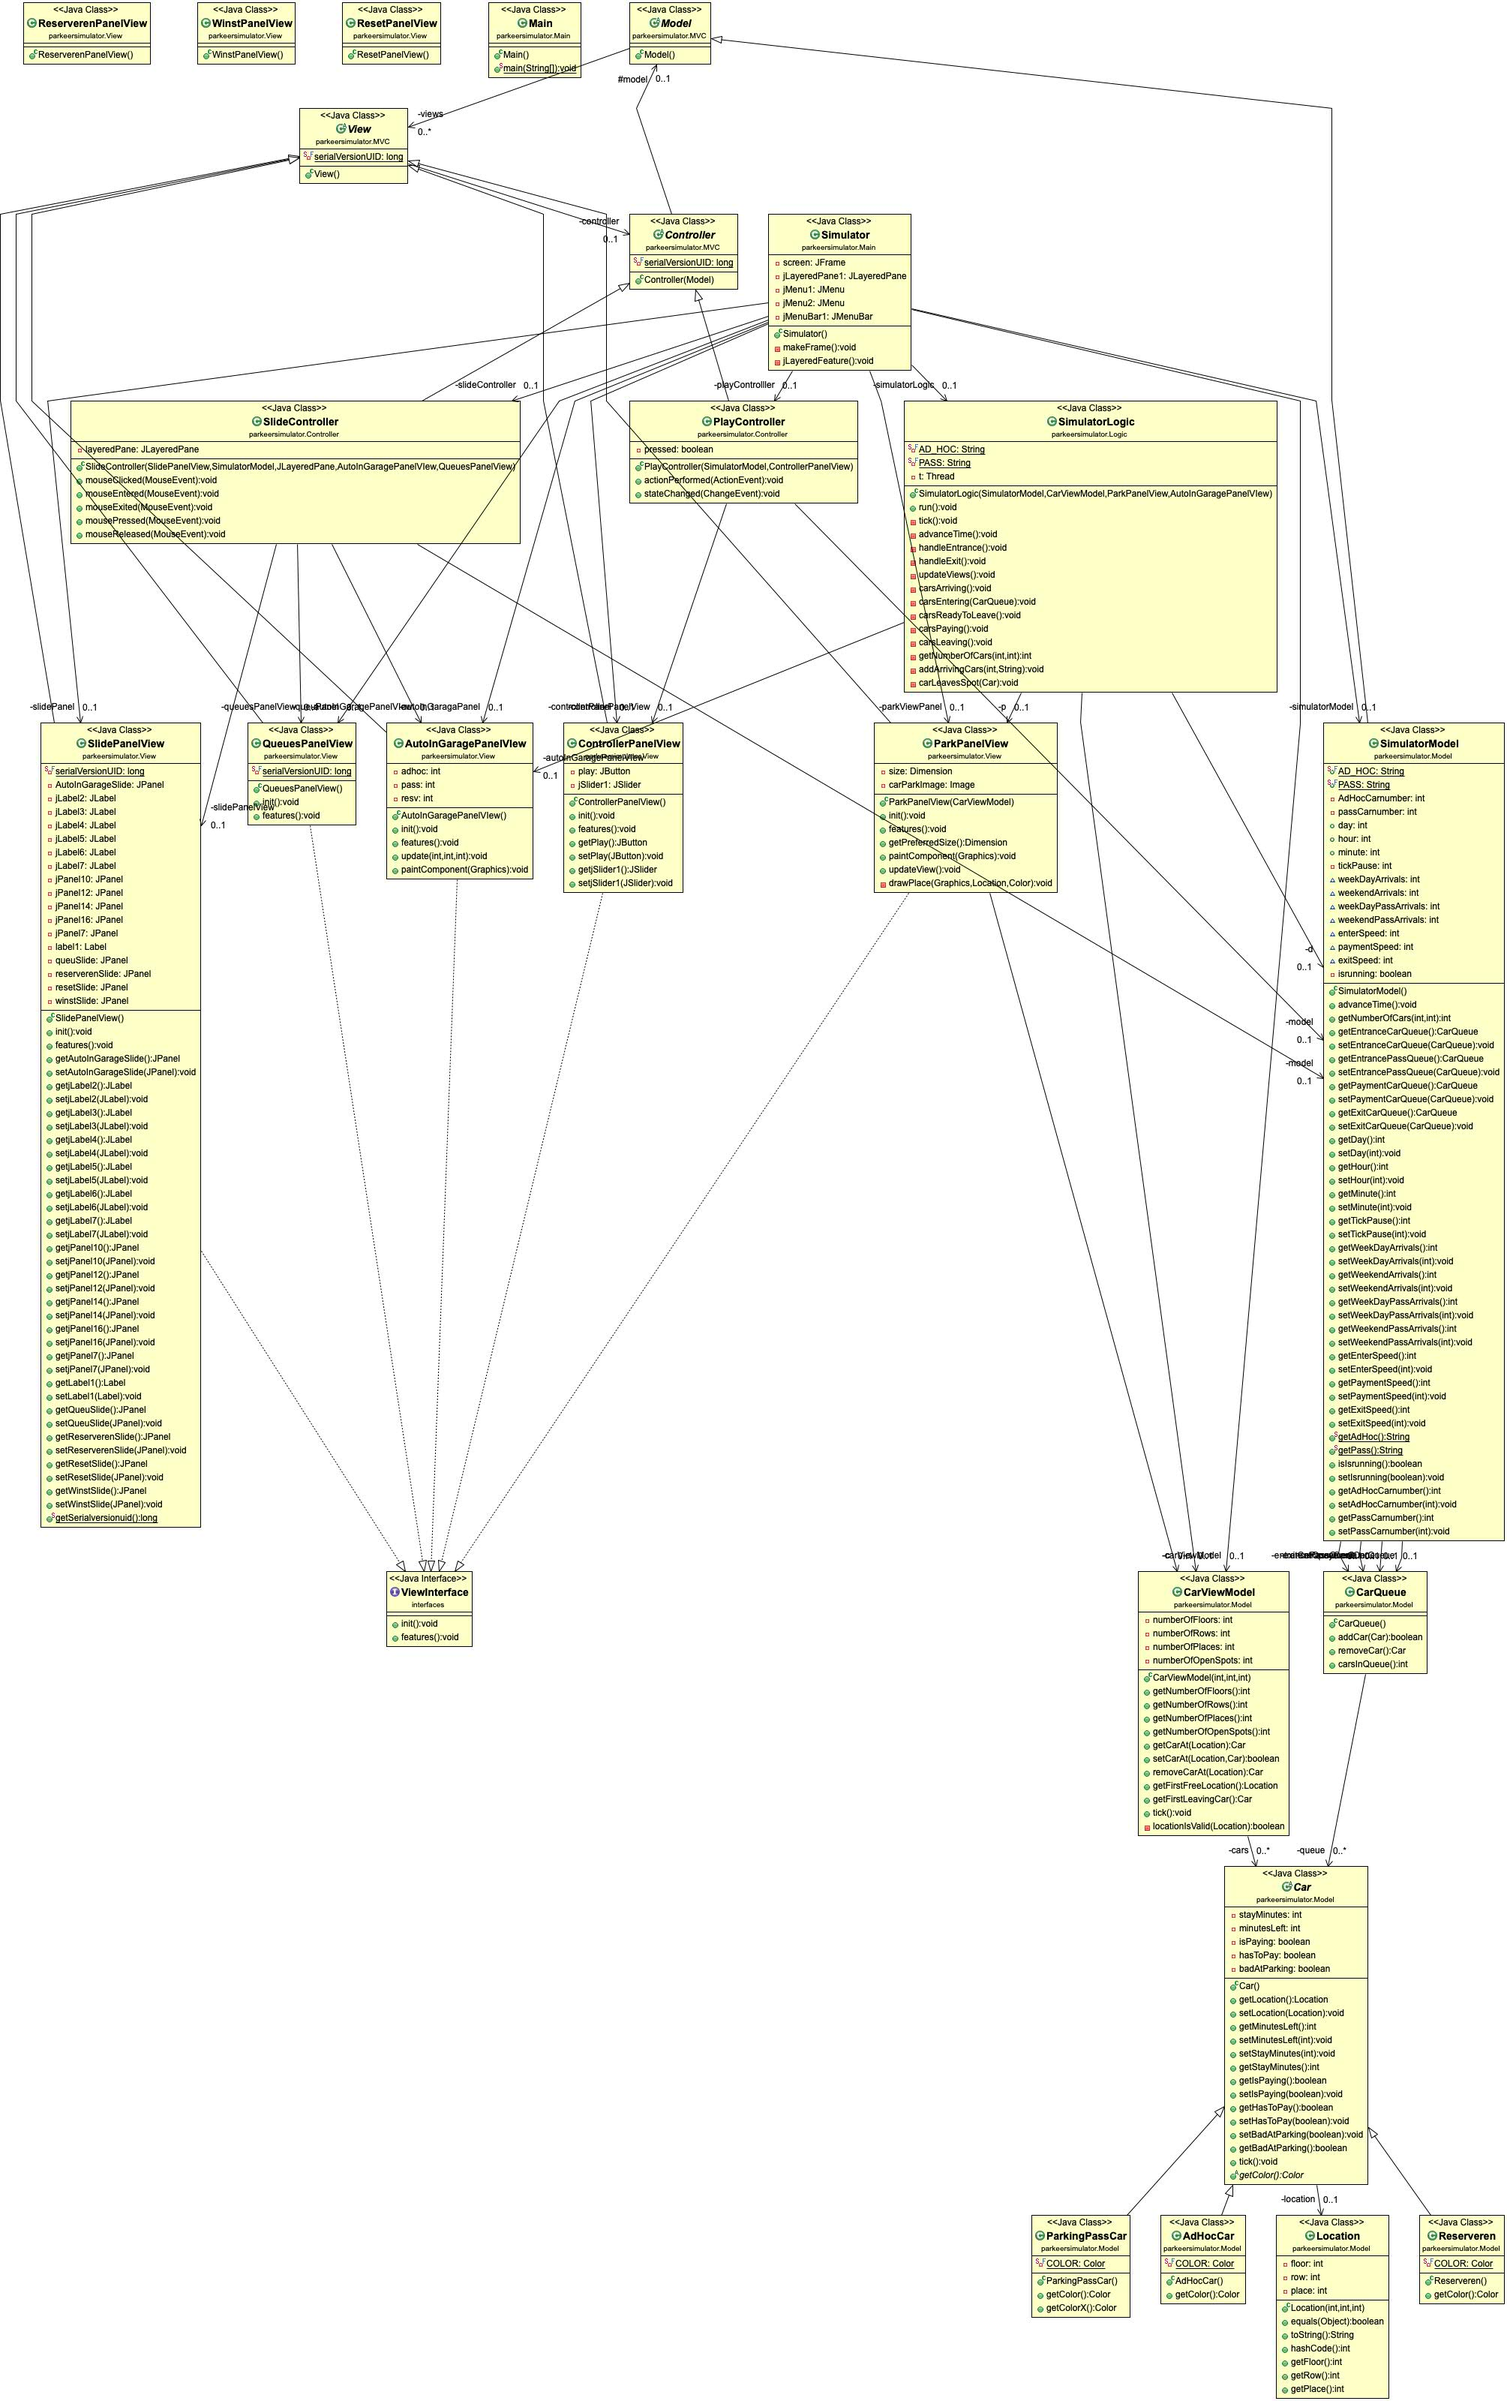
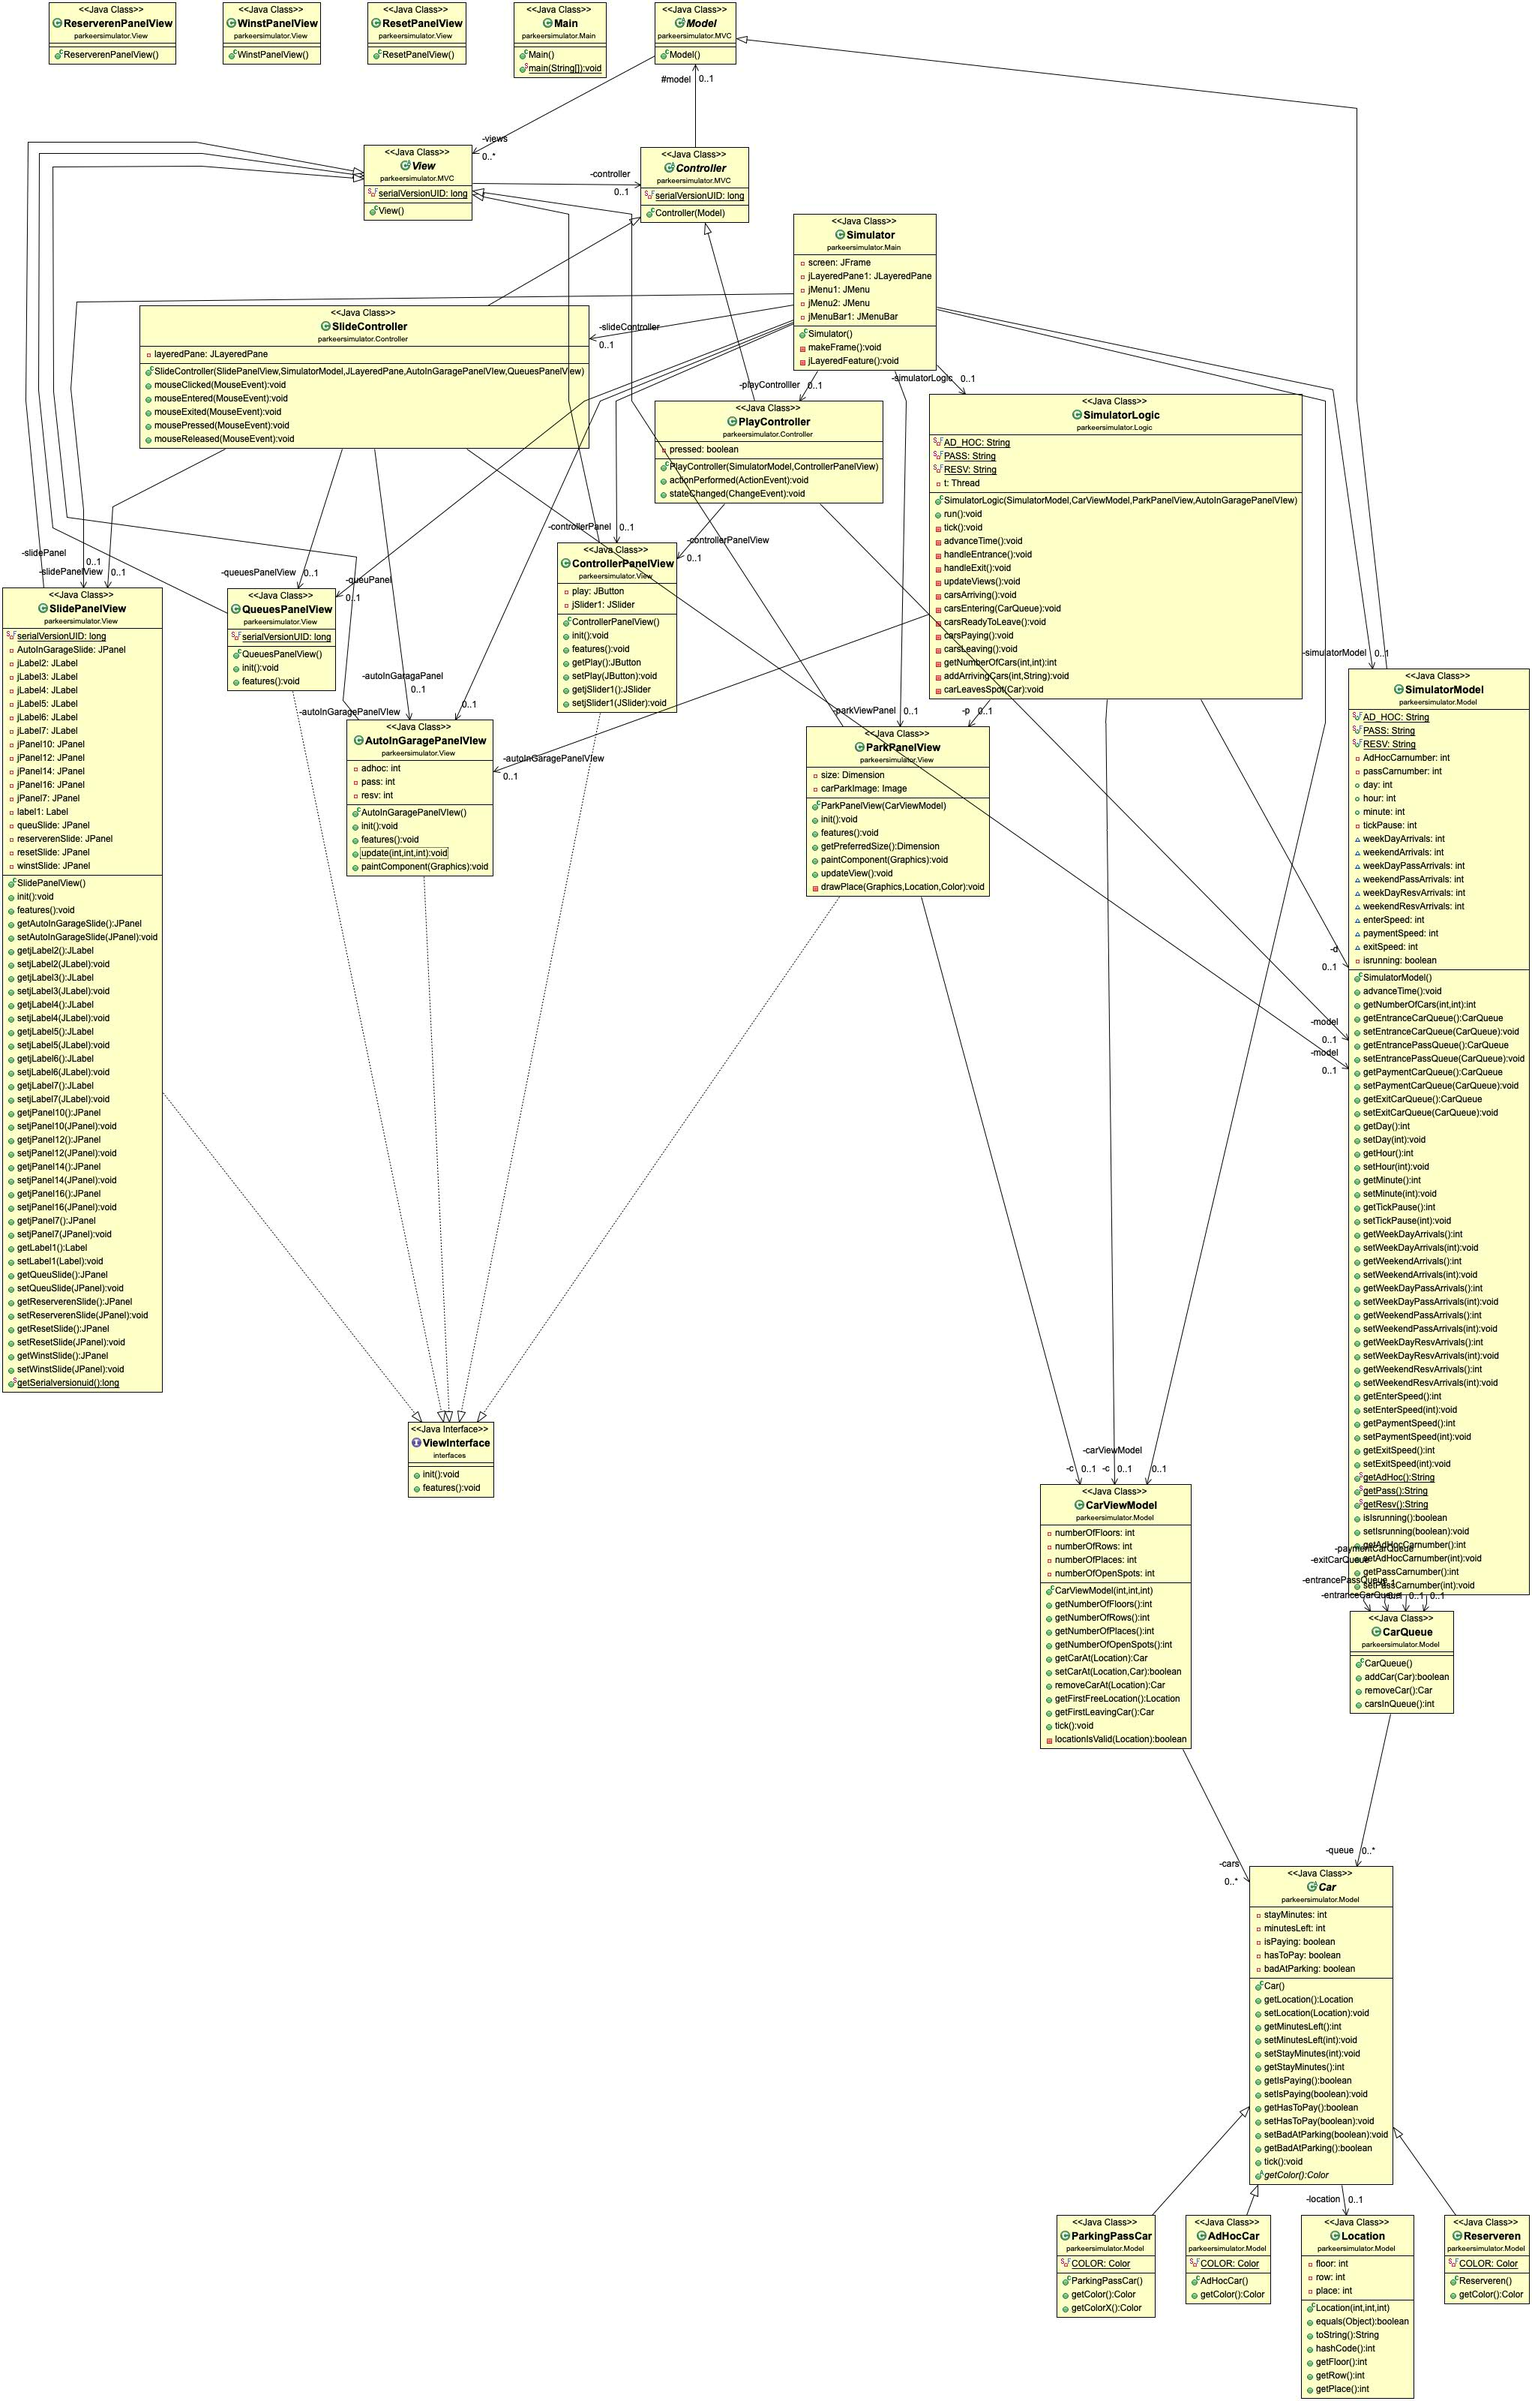
Reserveren toegeveogd + winst data

diff --git a/eclipse-workspace/Parkeersim/final/src/parkeersimulator/Model/SimulatorModel.java b/eclipse-workspace/Parkeersim/final/src/parkeersimulator/Model/SimulatorModel.java
@@ -1,5 +1,6 @@
 package parkeersimulator.Model;
 
+import java.util.ArrayList;
 import java.util.Random;
 
 import parkeersimulator.MVC.Model;
@@ -13,6 +14,7 @@ public class SimulatorModel extends Model {
 
 	public static final String AD_HOC = "1";
 	public static final String PASS = "2";
+	public static final String RESV = "5";
 	
 	
 	private CarQueue entranceCarQueue;
@@ -30,15 +32,21 @@ public class SimulatorModel extends Model {
 
     private int tickPause = 100;
 
-    int weekDayArrivals= 100; // average number of arriving cars per hour
-    int weekendArrivals = 200; // average number of arriving cars per hour
-    int weekDayPassArrivals= 50; // average number of arriving cars per hour
-    int weekendPassArrivals = 5; // average number of arriving cars per hour
+    private int weekDayArrivals= 100; // average number of arriving cars per hour
+    private int weekendArrivals = 200; // average number of arriving cars per hour
+    private int weekDayPassArrivals= 50; // average number of arriving cars per hour
+    private int weekendPassArrivals = 5; // average number of arriving cars per hour
+    private int weekDayResvArrivals = 30;
+    private int weekendResvArrivals = 10;
 
-    int enterSpeed = 3; // number of cars that can enter per minute
-    int paymentSpeed = 7; // number of cars that can pay per minute
-    int exitSpeed = 5; // number of cars that can leave per minute
+    private int enterSpeed = 3; // number of cars that can enter per minute
+    private int paymentSpeed = 7; // number of cars that can pay per minute
+    private int exitSpeed = 5; // number of cars that can leave per minute
     private boolean isrunning;
+    
+    private double totalProfit;
+    private ArrayList<Double> profitPerHour = new ArrayList<>();
+    
   
 	public SimulatorModel() {
 		entranceCarQueue = new CarQueue();
@@ -49,22 +57,22 @@ public class SimulatorModel extends Model {
        // simulatorView = new SimulatorView(3, 6, 30);
 	}
 	
-	public void advanceTime(){
-        // Advance the time by one minute.
-        minute++;
-        while (minute > 59) {
-            minute -= 60;
-            hour++;
-        }
-        while (hour > 23) {
-            hour -= 24;
-            day++;
-        }
-        while (day > 6) {
-            day -= 7;
-        }
-
-    }
+//	public void advanceTime(){
+//        // Advance the time by one minute.
+//        minute++;
+//        while (minute > 59) {
+//            minute -= 60;
+//            hour++;
+//        }
+//        while (hour > 23) {
+//            hour -= 24;
+//            day++;
+//        }
+//        while (day > 6) {
+//            day -= 7;
+//        }
+//
+//    }
 	
 	public int getNumberOfCars(int weekDay, int weekend){
         Random random = new Random();
@@ -175,7 +183,23 @@ public class SimulatorModel extends Model {
 		public void setWeekendPassArrivals(int weekendPassArrivals) {
 			this.weekendPassArrivals = weekendPassArrivals;
 		}
+		
+		public int getWeekDayResvArrivals() {
+			return weekDayResvArrivals;
+		}
+		
+		public void setWeekDayResvArrivals(int weekDayResvArrivals) {
+			this.weekDayResvArrivals = weekDayResvArrivals;
+		}
 
+		public int getWeekendResvArrivals() {
+			return weekendResvArrivals;
+		}
+		
+		public void setWeekendResvArrivals(int weekDayResvArrivals) {
+			this.weekendResvArrivals = weekDayResvArrivals;
+		}
+		
 		public int getEnterSpeed() {
 			return enterSpeed;
 		}
@@ -207,6 +231,10 @@ public class SimulatorModel extends Model {
 		public static String getPass() {
 			return PASS;
 		}
+		
+		public static String getResv() {
+			return RESV;
+		}
 
 		public boolean isIsrunning() {
 			return isrunning;
@@ -230,6 +258,22 @@ public class SimulatorModel extends Model {
 
 		public void setPassCarnumber(int passCarnumber) {
 			this.passCarnumber = passCarnumber;
+		}
+
+		public double getTotalProfit() {
+			return totalProfit;
+		}
+
+		public void setTotalProfit(double totalProfit) {
+			this.totalProfit = totalProfit;
+		}
+
+		public ArrayList<Double> getProfitPerHour() {
+			return profitPerHour;
+		}
+
+		public void setProfitPerHour(ArrayList<Double> profitPerHour) {
+			this.profitPerHour = profitPerHour;
 		}
 
 }

diff --git a/eclipse-workspace/Parkeersim/final/src/parkeersimulator/Logic/SimulatorLogic.java b/eclipse-workspace/Parkeersim/final/src/parkeersimulator/Logic/SimulatorLogic.java
@@ -9,16 +9,18 @@ import parkeersimulator.Model.CarQueue;
 import parkeersimulator.Model.CarViewModel;
 import parkeersimulator.Model.Location;
 import parkeersimulator.Model.ParkingPassCar;
+import parkeersimulator.Model.Reserveren;
 import parkeersimulator.Model.SimulatorModel;
 import parkeersimulator.View.AutoInGaragePanelVIew;
 import parkeersimulator.View.ParkPanelView;
 
 public class SimulatorLogic implements Runnable {
-	private SimulatorModel d ;
+	private SimulatorModel d;
 	private CarViewModel c;
 	private ParkPanelView p;
 	private static final String AD_HOC = SimulatorModel.AD_HOC;
 	private static final String PASS =SimulatorModel.PASS;
+	private static final String RESV = SimulatorModel.RESV;
 	private Thread t = new Thread(this);
 	private AutoInGaragePanelVIew autoInGaragePanelVIew;
    
@@ -57,17 +59,18 @@ public class SimulatorLogic implements Runnable {
         // Advance the time by one minute.
         d.setMinute(d.getMinute()+1);
         while (d.getMinute() > 59) {
-
+    			d.getProfitPerHour().add(d.getTotalProfit());
+    			System.out.println(d.getProfitPerHour());
+    			d.setTotalProfit(0);
             d.setMinute(d.getMinute()-60);
             d.setHour(d.getHour()+1);
         }
         while (d.getHour() > 23) {
-            
             d.setHour(d.getHour()-24);
             d.setDay(d.getDay()+1);
         }
         while (d.getDay() > 6) {
-        	d.setDay(d.getDay()-7);
+        		d.setDay(d.getDay()-7);
         }
 
     }
@@ -92,10 +95,15 @@ public class SimulatorLogic implements Runnable {
     }
     
     private void carsArriving(){
-    	int numberOfCars=getNumberOfCars(d.getWeekDayArrivals(), d.getWeekendArrivals());
+    		int numberOfCars=getNumberOfCars(d.getWeekDayArrivals(), d.getWeekendArrivals());
         addArrivingCars(numberOfCars, SimulatorModel.getAdHoc());    	
-    	numberOfCars=getNumberOfCars(d.getWeekDayPassArrivals(), d.getWeekendPassArrivals());
-        addArrivingCars(numberOfCars, SimulatorModel.getPass());    	
+        
+    		numberOfCars=getNumberOfCars(d.getWeekDayPassArrivals(), d.getWeekendPassArrivals());
+        addArrivingCars(numberOfCars, SimulatorModel.getPass());   
+        
+        numberOfCars=getNumberOfCars(d.getWeekDayResvArrivals(), d.getWeekendResvArrivals());
+        addArrivingCars(numberOfCars, SimulatorModel.getResv()); 
+        
     }
 
     private void carsEntering(CarQueue queue){
@@ -139,11 +147,14 @@ public class SimulatorLogic implements Runnable {
     
     private void carsLeaving(){
         // Let cars leave.
-    	int i=0;
-    	while (d.getExitCarQueue().carsInQueue()>0 && i < d.getExitSpeed()){
-    		d.getExitCarQueue().removeCar();
+    		int i=0;
+    		while (d.getExitCarQueue().carsInQueue()>0 && i < d.getExitSpeed()){
+    			Car car = d.getExitCarQueue().getCar();
+    			d.setTotalProfit(d.getTotalProfit() + car.profitCar());
+    			//System.out.println((int)d.getTotalProfit());
+    			d.getExitCarQueue().removeCar();
             i++;
-    	}	
+    		}
     }
     
     private int getNumberOfCars(int weekDay, int weekend){
@@ -175,15 +186,21 @@ public class SimulatorLogic implements Runnable {
             	d.setPassCarnumber(d.getPassCarnumber()+1);
             }
             break;	            
-    	}
+    	case RESV:
+    			for (int i = 0; i < numberOfCars; i++) {
+            	d.getEntrancePassQueue().addCar(new Reserveren());
+            	d.setPassCarnumber(d.getPassCarnumber()+1);
+            }
+            break;
+    			
+    		}
     }
     
     private void carLeavesSpot(Car car){
-    	c.removeCarAt(car.getLocation());
+    		c.removeCarAt(car.getLocation());
         d.getExitCarQueue().addCar(car);
     }
     
-  
-	
+    
 	
 }

diff --git a/eclipse-workspace/Parkeersim/final/src/parkeersimulator/View/AutoInGaragePanelVIew.java b/eclipse-workspace/Parkeersim/final/src/parkeersimulator/View/AutoInGaragePanelVIew.java
@@ -12,14 +12,6 @@ import java.awt.BorderLayout;
 import java.awt.Color;
 import java.awt.Graphics;
 
-import org.jfree.chart.ChartFactory;
-import org.jfree.chart.ChartPanel;
-import org.jfree.chart.JFreeChart;
-import org.jfree.chart.plot.PlotOrientation;
-import org.jfree.data.xy.XYSeries;
-import org.jfree.data.xy.XYSeriesCollection;
-
-
 /**
  * @author Iyad Saffaf
  *
@@ -34,6 +26,7 @@ public class AutoInGaragePanelVIew extends View implements ViewInterface{
 	 */
 	private int adhoc;
 	private int pass;
+	private int resv; // nieuw
 	
 
 	public AutoInGaragePanelVIew() {
@@ -99,9 +92,10 @@ public class AutoInGaragePanelVIew extends View implements ViewInterface{
 		
 	}
 	
-	public  void update(int adhoc,int pass) {
+	public  void update(int adhoc,int pass,int resv) {
 		this.adhoc=adhoc;
 		this.pass=pass;
+		this.resv=resv;//nieuw
 		this.repaint();
 	}
 	  
@@ -112,7 +106,7 @@ public class AutoInGaragePanelVIew extends View implements ViewInterface{
 
 	        int amountOfAd_Hoc = adhoc;
 	        int amountOfPassCars = pass;
-	        int amountOfReservedCars = 4;
+	        int amountOfReservedCars = resv; //4;
 
 	        System.out.println("Check amountOfAd_Hoc = " + amountOfAd_Hoc);
 	        System.out.println("Check amountOfPassCars = " + amountOfPassCars);
@@ -134,13 +128,11 @@ public class AutoInGaragePanelVIew extends View implements ViewInterface{
 	        //PassCars slice
 	        g.setColor(Color.BLUE);
 	        g.fillArc(10, 10, 180, 180, angleAd_Hoc, anglePassCars);
+	        
 	        //ReservedCars slice
 	        g.setColor(Color.GREEN);
 	        g.fillArc(10, 10, 180, 180, anglePassCars + angleAd_Hoc, angleReservedCars);
 	        g.setColor(Color.LIGHT_GRAY);
 	        g.fillArc(10, 10, 180, 180, anglePassCars + angleAd_Hoc + angleReservedCars, 360-(angleAd_Hoc + anglePassCars + angleReservedCars));
 	    }
-	
-	
-
 }

diff --git a/eclipse-workspace/Parkeersim/final/src/parkeersimulator/View/WinstPanelView.java b/eclipse-workspace/Parkeersim/final/src/parkeersimulator/View/WinstPanelView.java
@@ -1,9 +1,25 @@
 package parkeersimulator.View;
 
-public class WinstPanelView {
+import java.awt.BorderLayout;
+import java.awt.Dimension;
+import java.io.File;
+import java.io.IOException;
 
-	public WinstPanelView() {
-		// TODO Auto-generated constructor stub
+import org.jfree.*;
+import org.jfree.chart.ChartFactory;
+import org.jfree.chart.ChartPanel;
+import org.jfree.chart.ChartUtilities;
+import org.jfree.chart.JFreeChart;
+import org.jfree.chart.plot.PlotOrientation;
+import org.jfree.data.category.DefaultCategoryDataset;
+import org.jfree.data.xy.XYSeries;
+import org.jfree.data.xy.XYSeriesCollection;
+
+import parkeersimulator.MVC.View;
+
+public class WinstPanelView  extends View {
+
+	public WinstPanelView()  {
+
 	}
-
 }

diff --git a/eclipse-workspace/Parkeersim/final/src/parkeersimulator/Model/Car.java b/eclipse-workspace/Parkeersim/final/src/parkeersimulator/Model/Car.java
@@ -14,6 +14,8 @@ public abstract class Car {
     private boolean isPaying;
     private boolean hasToPay;
     private boolean badAtParking = false;
+	double payPrice = 0.05;
+	double profitCar;
 
     /**
      * Constructor voor objecten van klasse Car.
@@ -103,4 +105,12 @@ public abstract class Car {
      * @return de Color van deze Car.
      */
     public abstract Color getColor();
+    
+    public double profitCar() {
+
+		if(this.getIsPaying()) {
+			profitCar = this.getStayMinutes() * payPrice;
+		}
+		return profitCar;
+}
 }

diff --git a/eclipse-workspace/Parkeersim/final/src/parkeersimulator/Model/CarQueue.java b/eclipse-workspace/Parkeersim/final/src/parkeersimulator/Model/CarQueue.java
@@ -20,4 +20,8 @@ public class CarQueue {
     public int carsInQueue(){
     	return queue.size();
     }
+    
+    public Car getCar() {
+    		return queue.element();
+    }
 }
